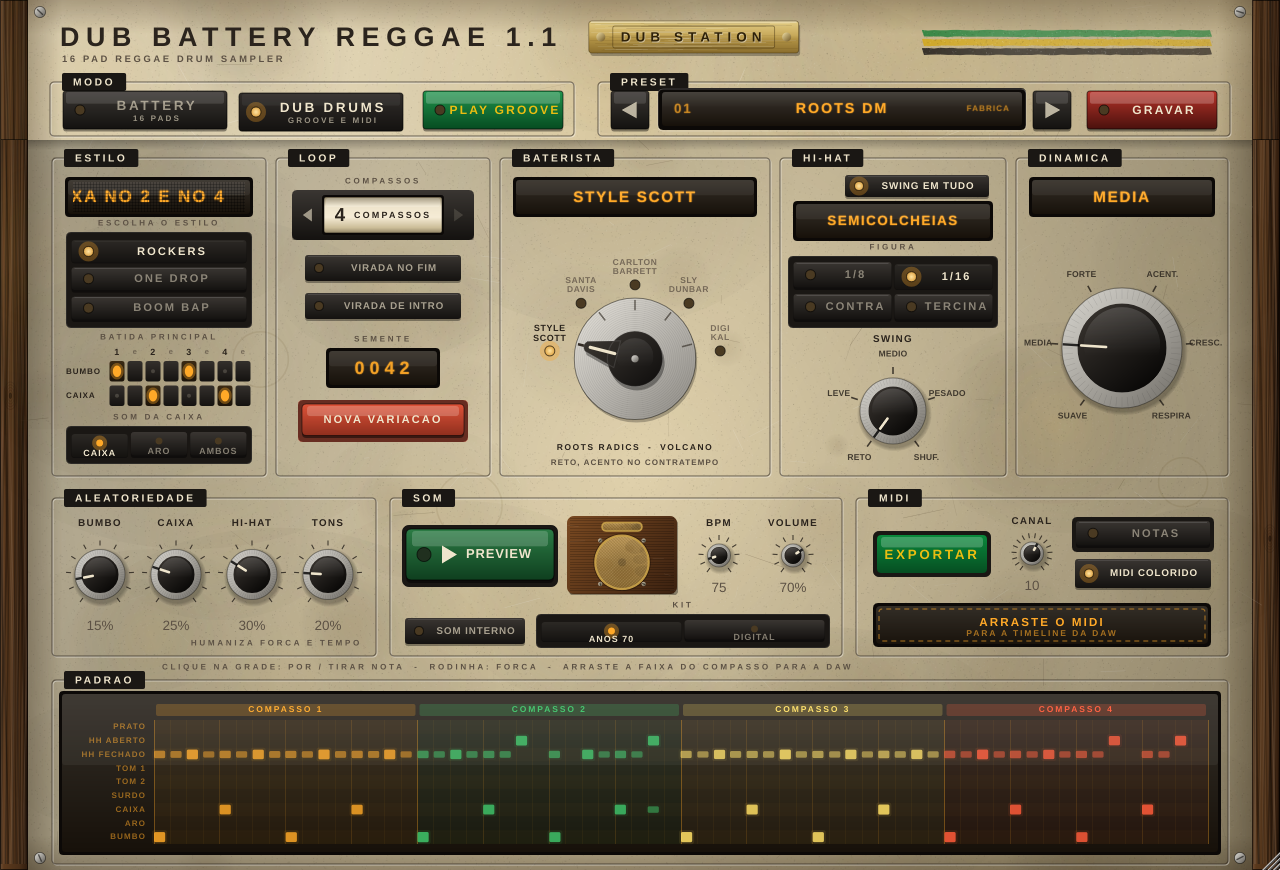
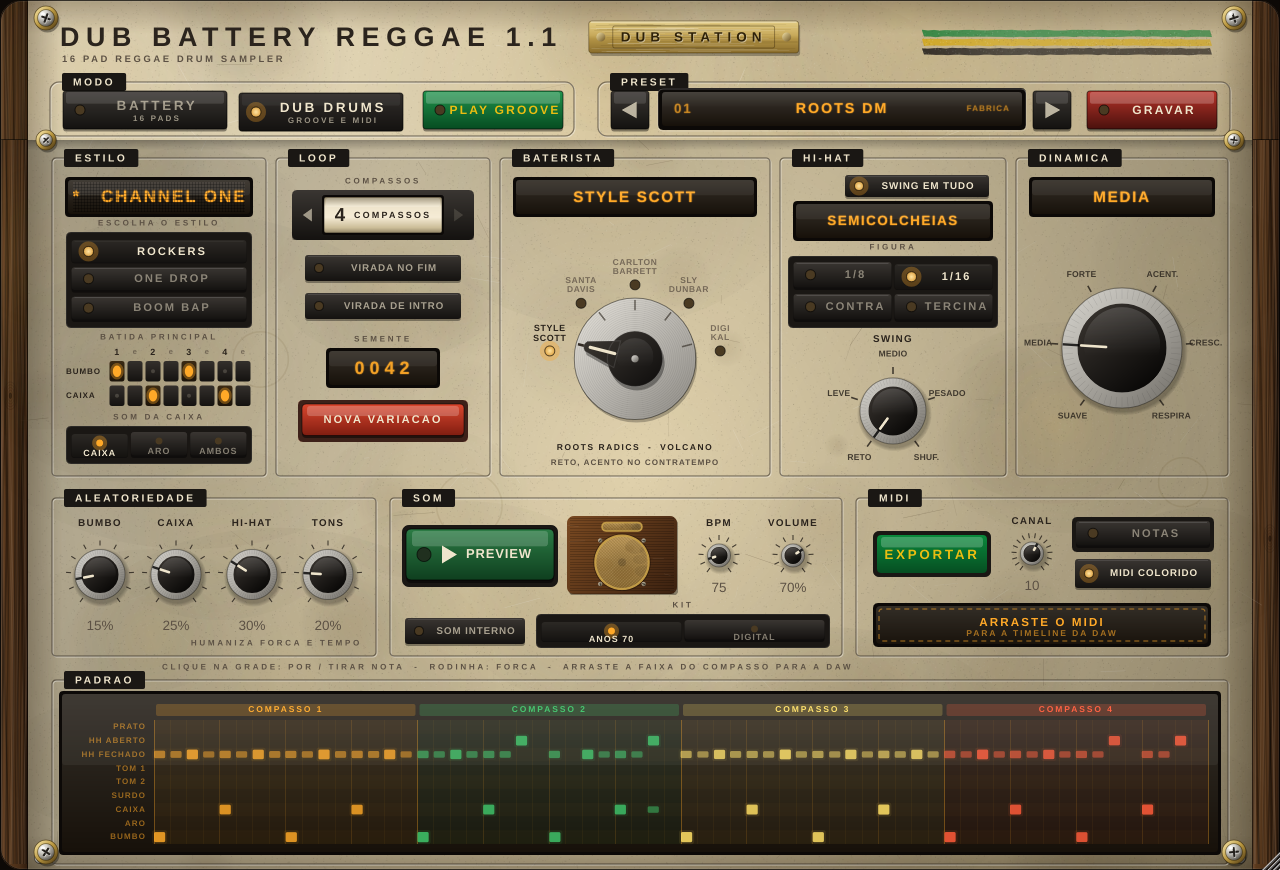
Dub Battery Reggae 1.1: bordas arredondadas, parafusos estilizados e .pkg sem relocate
- Plugin e versão no navegador: gabinete com cantos arredondados, parafusos cromados
  com arruela de latão e fenda Phillips nos cantos (e na emenda do cabeçalho),
  seções com cantos mais redondos
- Mac: o .pkg não "realoca" mais o plugin para outra cópia que exista no disco
  (zip descompactado, pasta de build): instala sempre em /Library/Audio/Plug-Ins

Claude-Session: https://claude.ai/code/session_01DJAeybg8FXy5Cjz5LQxjCG

diff --git a/site/battery/index.html b/site/battery/index.html
@@ -14,16 +14,28 @@
 *{box-sizing:border-box;-webkit-tap-highlight-color:transparent}
 html,body{margin:0;background:var(--wood);color:var(--ink);font-family:"Helvetica Neue",Arial,sans-serif}
 body{padding:env(safe-area-inset-top) 0 env(safe-area-inset-bottom)}
-.rack{max-width:1280px;margin:0 auto;display:flex;min-height:100vh}
+.rack{max-width:1280px;margin:10px auto;display:flex;min-height:calc(100vh - 20px);border-radius:24px;overflow:hidden;box-shadow:0 0 0 1px #000,0 6px 24px rgba(0,0,0,.6),inset 0 1px 0 rgba(255,255,255,.12)}
+@media (max-width:560px){.rack{margin:6px;border-radius:18px}}
 .wood{width:14px;flex:none;background:repeating-linear-gradient(90deg,rgba(0,0,0,.18) 0 2px,transparent 2px 7px),linear-gradient(90deg,#5b3519,#8a5428 40%,#6a3d1c 70%,#4a2a12)}
-.unit{flex:1;min-width:0;background:radial-gradient(900px 500px at 30% 0%,#efe4c9,var(--plate) 55%,#d8c9a6);padding:12px 12px 24px}
+.unit{flex:1;min-width:0;position:relative;background:radial-gradient(900px 500px at 30% 0%,#efe4c9,var(--plate) 55%,#d8c9a6);padding:16px 30px 34px}
+@media (max-width:560px){.unit{padding:30px 12px 34px}}
+/* parafusos estilizados: arruela de latão, cabeça cromada e fenda Phillips */
+.screw{position:absolute;width:16px;height:16px;border-radius:50%;z-index:2;pointer-events:none;
+  background:radial-gradient(circle at 34% 28%,#fbfaf6 0,#d2d0ca 30%,#8a8780 70%,#4d4a44 100%);
+  box-shadow:0 0 0 1px rgba(0,0,0,.45),0 0 0 4px #b8963f,0 0 0 5px rgba(61,44,12,.7),2px 3px 4px 3px rgba(0,0,0,.35)}
+.screw::before,.screw::after{content:"";position:absolute;left:50%;top:50%;width:11px;height:2.6px;margin:-1.3px 0 0 -5.5px;border-radius:1px;
+  background:#24211d;box-shadow:.6px .8px 0 rgba(255,255,255,.55);transform:rotate(var(--a,20deg))}
+.screw::after{transform:rotate(calc(var(--a,20deg) + 90deg))}
+.screw.tl{left:10px;top:10px;--a:20deg}.screw.tr{right:10px;top:10px;--a:72deg}
+.screw.bl{left:10px;bottom:10px;--a:-35deg}.screw.br{right:10px;bottom:10px;--a:115deg}
+@media (max-width:560px){.screw{transform:scale(.8)}.screw.tl,.screw.bl{left:5px}.screw.tr,.screw.br{right:5px}}
 header{display:flex;flex-wrap:wrap;align-items:center;gap:10px 16px;margin-bottom:24px}
 h1{margin:0;font-size:clamp(16px,2.6vw,28px);letter-spacing:.16em;font-weight:800}
 .sub{font-size:10px;letter-spacing:.3em;color:var(--ink2);margin-top:4px}
 .plaque{padding:6px 16px;border-radius:5px;font-weight:800;letter-spacing:.35em;font-size:13px;color:#3a2a10;
   background:linear-gradient(180deg,#f3d27a,#c99a33 55%,#a87c22);box-shadow:inset 0 1px 0 rgba(255,255,255,.5),0 2px 4px rgba(0,0,0,.35)}
 .flag{flex:1;min-width:80px;height:14px;border-radius:3px;background:linear-gradient(180deg,var(--green) 0 33%,var(--gold) 33% 66%,#222 66%);opacity:.85}
-.mod{position:relative;border:1.2px solid rgba(43,36,29,.55);border-radius:6px;padding:18px 12px 12px;box-shadow:1px 1px 0 rgba(255,255,255,.45);min-width:0}
+.mod{position:relative;border:1.2px solid rgba(43,36,29,.55);border-radius:12px;padding:18px 12px 12px;box-shadow:1px 1px 0 rgba(255,255,255,.45);min-width:0}
 .mod>.tag{position:absolute;top:-10px;left:12px;background:var(--label);color:var(--cream);font-weight:800;font-size:11px;letter-spacing:.22em;padding:3px 10px;border-radius:2px}
 .lbl{font-size:9px;letter-spacing:.3em;color:var(--ink2);text-align:center;margin:10px 0 5px;font-weight:700}
 .hint{font-size:9.5px;letter-spacing:.14em;color:var(--ink2);font-weight:700;margin:8px 2px 0;text-align:center}
@@ -130,6 +142,7 @@ canvas#pat{display:block;min-width:760px;width:100%;height:250px}
 </head>
 <body>
 <div class="rack"><div class="wood"></div><div class="unit">
+<i class="screw tl"></i><i class="screw tr"></i><i class="screw bl"></i><i class="screw br"></i>
 <header>
   <div><h1>DUB BATTERY REGGAE&nbsp;1.1</h1><div class="sub">16 PAD REGGAE DRUM SAMPLER · NO NAVEGADOR</div></div>
   <div class="plaque">DUB STATION</div><div class="flag"></div>

diff --git a/DubBattery/Source/BatteryEditor.cpp b/DubBattery/Source/BatteryEditor.cpp
@@ -188,16 +188,39 @@ static void paintPlate (juce::Graphics& g, juce::Rectangle<int> plate, juce::Ran
     }
 }
 
-static void screw (juce::Graphics& g, float sx, float sy, juce::Random& rng)
+// Parafuso estilizado dos cantos: arruela de latão, cabeça cromada abaulada e fenda Phillips
+static void fancyScrew (juce::Graphics& g, juce::Point<float> c, float r, float angle)
 {
-    const auto r = juce::Rectangle<float> (11, 11).withCentre ({ sx, sy });
-    juce::ColourGradient sg (juce::Colour (0xffe0ded8), r.getX(), r.getY(), juce::Colour (0xff5e5b55), r.getRight(), r.getBottom(), false);
-    g.setGradientFill (sg);
-    g.fillEllipse (r);
-    g.setColour (juce::Colours::black.withAlpha (0.55f));
-    g.drawEllipse (r, 0.8f);
-    const float a = rng.nextFloat() * 3.14f;
-    g.drawLine (sx - std::cos (a) * 4.0f, sy - std::sin (a) * 4.0f, sx + std::cos (a) * 4.0f, sy + std::sin (a) * 4.0f, 1.4f);
+    auto circle = [&] (float rr) { return juce::Rectangle<float> (rr * 2.0f, rr * 2.0f).withCentre (c); };
+    g.setColour (juce::Colours::black.withAlpha (0.35f));                      // sombra no painel
+    g.fillEllipse (circle (r + 4.0f).translated (1.5f, 2.5f));
+    juce::ColourGradient washer (juce::Colour (0xffe8d28c), c.x - r, c.y - r, juce::Colour (0xff6b5220), c.x + r, c.y + r, false);
+    washer.addColour (0.5, juce::Colour (0xffb8963f));
+    g.setGradientFill (washer);                                               // arruela de latão
+    g.fillEllipse (circle (r + 4.0f));
+    g.setColour (juce::Colour (0xff3d2c0c).withAlpha (0.7f));
+    g.drawEllipse (circle (r + 4.0f), 0.8f);
+    g.setColour (juce::Colours::black.withAlpha (0.45f));
+    g.fillEllipse (circle (r + 0.8f));
+    juce::ColourGradient head (juce::Colour (0xfffbfaf6), c.x - r * 0.45f, c.y - r * 0.55f,
+                               juce::Colour (0xff4d4a44), c.x + r * 0.7f, c.y + r * 0.8f, true);
+    head.addColour (0.35, juce::Colour (0xffd2d0ca));
+    head.addColour (0.75, juce::Colour (0xff8a8780));
+    g.setGradientFill (head);                                                 // cabeça cromada
+    g.fillEllipse (circle (r));
+    auto rot = juce::AffineTransform::rotation (angle).translated (c.x, c.y);
+    for (int k = 0; k < 2; ++k)                                               // fenda Phillips
+    {
+        juce::Path slot;
+        if (k == 0) slot.addRoundedRectangle (-r * 0.62f, -r * 0.13f, r * 1.24f, r * 0.26f, r * 0.1f);
+        else        slot.addRoundedRectangle (-r * 0.13f, -r * 0.62f, r * 0.26f, r * 1.24f, r * 0.1f);
+        g.setColour (juce::Colours::white.withAlpha (0.55f));
+        g.fillPath (slot, rot.translated (0.6f, 0.8f));
+        g.setColour (juce::Colour (0xff24211d));
+        g.fillPath (slot, rot);
+    }
+    g.setColour (juce::Colours::white.withAlpha (0.75f));                      // brilho
+    g.fillEllipse (juce::Rectangle<float> (r * 0.55f, r * 0.35f).withCentre ({ c.x - r * 0.38f, c.y - r * 0.5f }));
 }
 
 // moldura gravada + plaqueta preta com o nome da seção
@@ -205,9 +228,9 @@ static void section (juce::Graphics& g, juce::Rectangle<int> r, const juce::Stri
 {
     auto rf = r.toFloat();
     g.setColour (juce::Colours::white.withAlpha (0.45f));
-    g.drawRoundedRectangle (rf.translated (1, 1), 4.0f, 1.0f);
+    g.drawRoundedRectangle (rf.translated (1, 1), 9.0f, 1.0f);
     g.setColour (col::ink.withAlpha (0.55f));
-    g.drawRoundedRectangle (rf, 4.0f, 1.2f);
+    g.drawRoundedRectangle (rf, 9.0f, 1.2f);
     g.setFont (stencil (11.5f, 0.22f));
     const float tw = juce::GlyphArrangement::getStringWidth (g.getCurrentFont(), t) + 22.0f;
     auto tag = juce::Rectangle<float> (rf.getX() + 12, rf.getY() - 9, tw, 18);
@@ -1021,8 +1044,6 @@ void Header::renderBackground()
     paintWood (g, { W - 28, 0, 28, H }, rng);
     const juce::Rectangle<int> plate (28, 0, W - 56, H);
     paintPlate (g, plate, rng, true, false);
-    screw (g, (float) plate.getX() + 12.0f, 12.0f, rng);
-    screw (g, (float) plate.getRight() - 12.0f, 12.0f, rng);
 
     // título (padrão da casa: versão logo depois do nome)
     g.setColour (col::ink);
@@ -1321,8 +1342,6 @@ void BatteryPanel::renderBackground()
                               juce::Colours::black.withAlpha (0.22f), (float) plate.getX(), (float) plate.getBottom(), true);
     g.setGradientFill (vig);
     g.fillRect (plate);
-    screw (g, (float) plate.getX() + 12.0f, (float) plate.getBottom() - 12.0f, rng);
-    screw (g, (float) plate.getRight() - 12.0f, (float) plate.getBottom() - 12.0f, rng);
 
     section (g, sampleSec, "SAMPLE");
     section (g, envSec, "ENVELOPE");
@@ -1381,10 +1400,31 @@ BatteryRoot::BatteryRoot (BatteryProcessor& p)
 
 void BatteryRoot::paintOverChildren (juce::Graphics& g)
 {
+    const float W = (float) getWidth(), H = (float) getHeight();
     const float y = (float) dbrui::Header::height;
     juce::ColourGradient sh (juce::Colours::black.withAlpha (0.25f), 0.0f, y, juce::Colours::transparentBlack, 0.0f, y + 10.0f, false);
     g.setGradientFill (sh);
-    g.fillRect (28.0f, y, (float) getWidth() - 56.0f, 10.0f);
+    g.fillRect (28.0f, y, W - 56.0f, 10.0f);
+
+    // bordas arredondadas: o gabinete inteiro (madeira + painel) com cantos redondos
+    const auto outer = juce::Rectangle<float> (0.0f, 0.0f, W, H);
+    constexpr float radius = 22.0f;
+    juce::Path mask;
+    mask.addRectangle (outer);
+    mask.addRoundedRectangle (outer, radius);
+    mask.setUsingNonZeroWinding (false);
+    g.setColour (juce::Colour (0xff0d0906));
+    g.fillPath (mask);
+    g.setColour (juce::Colours::white.withAlpha (0.12f));                      // fio de luz na borda
+    g.drawRoundedRectangle (outer.reduced (1.0f), radius - 1.0f, 1.0f);
+    g.setColour (juce::Colours::black.withAlpha (0.7f));
+    g.drawRoundedRectangle (outer.reduced (0.5f), radius, 1.0f);
+
+    // parafusos estilizados nos cantos do painel (e nas pontas da emenda do cabeçalho)
+    const float m = 18.0f, xl = 28.0f + m, xr = W - 28.0f - m;
+    const juce::Point<float> spots[] = { { xl, m }, { xr, m }, { xl, H - m }, { xr, H - m }, { xl, y }, { xr, y } };
+    float a = 0.35f;
+    for (auto p : spots) { dbrui::fancyScrew (g, p, p.y == y ? 6.0f : 8.0f, a); a += 0.9f; }
 }
 
 void BatteryRoot::showTab (int t)
